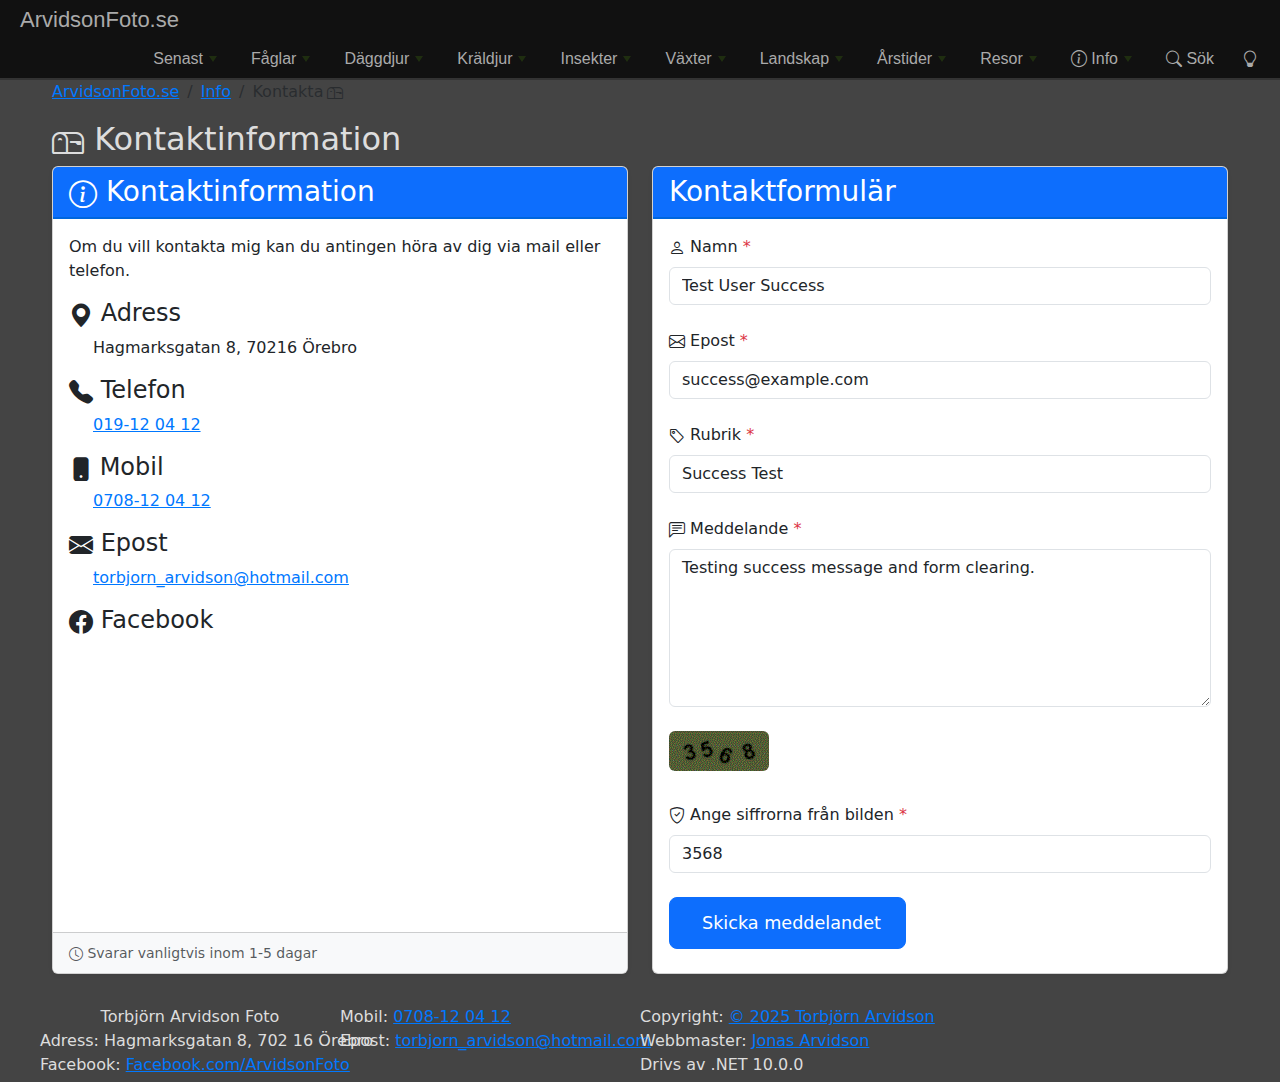
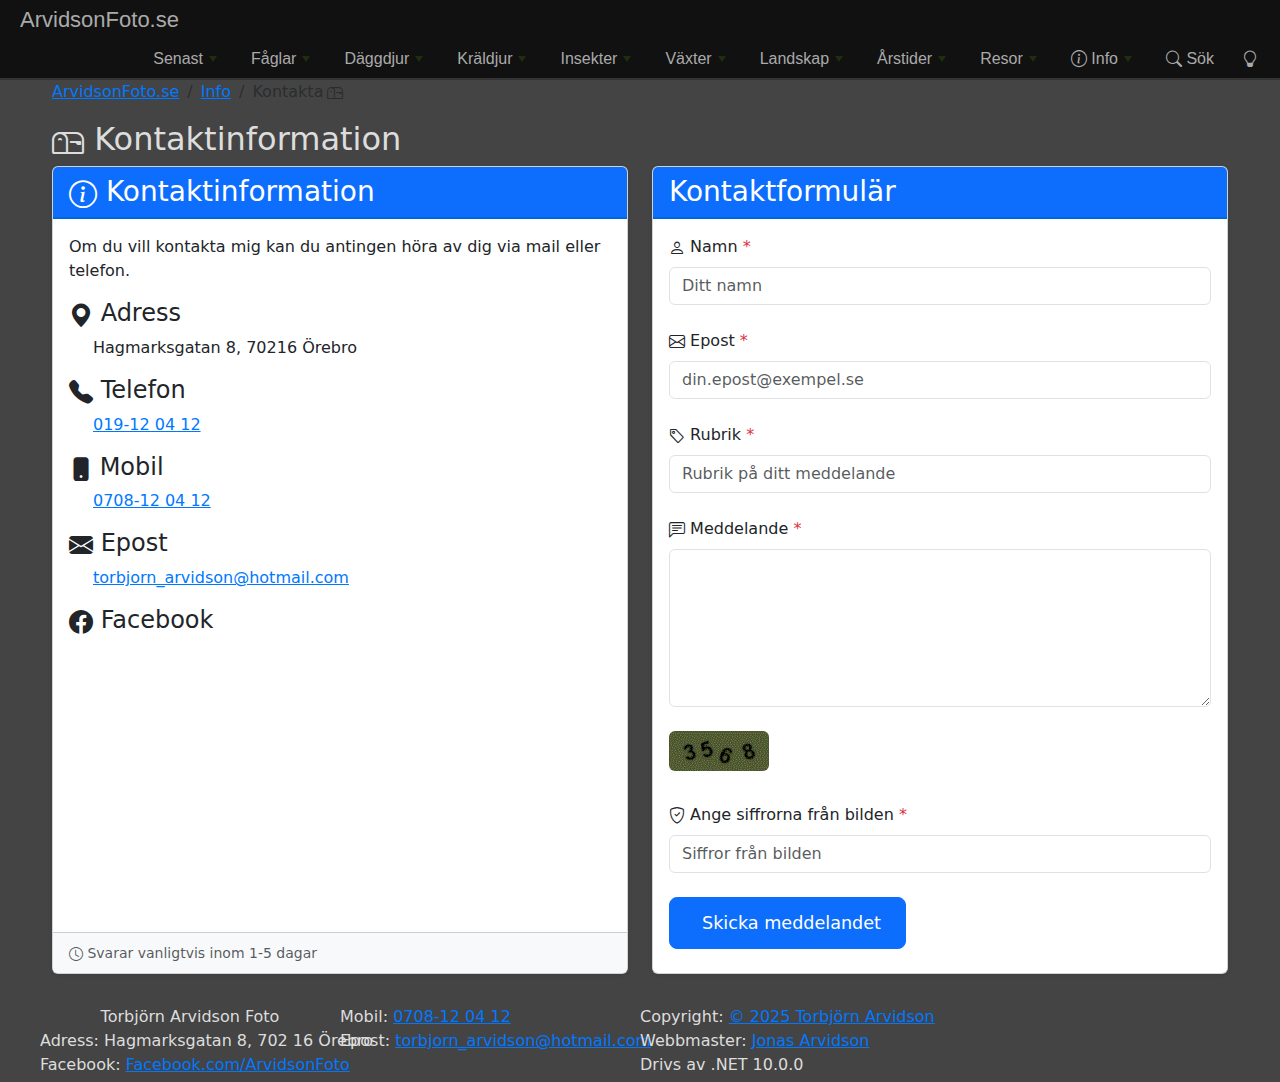
Fix alert message display using TempData for proper redirect handling

diff --git a/ArvidsonFoto.Tests.E2E/ContactFormTests.cs b/ArvidsonFoto.Tests.E2E/ContactFormTests.cs
@@ -161,19 +161,40 @@ public class ContactFormTests : IAsyncLifetime
         await page.WaitForLoadStateAsync(LoadState.NetworkIdle);
         await page.WaitForTimeoutAsync(2000);
 
-        // Take screenshot
-        await page.ScreenshotAsync(new PageScreenshotOptions
-        {
-            Path = "screenshots/contact-form-error-message.png",
-            FullPage = true
-        });
-
         // Assert - error message should be visible (if SMTP not configured)
         // The error alert contains the fallback email
         var errorAlert = page.Locator(".alert-danger");
-        if (await errorAlert.IsVisibleAsync())
+        var isErrorVisible = await errorAlert.IsVisibleAsync();
+        
+        if (isErrorVisible)
         {
             await Assertions.Expect(errorAlert).ToContainTextAsync("torbjorn@arvidsonfoto.se");
+            
+            // Scroll to alert to ensure it's visible in screenshot
+            await errorAlert.ScrollIntoViewIfNeededAsync();
+            await page.WaitForTimeoutAsync(500);
+            
+            // Take screenshot of the full page showing error
+            await page.ScreenshotAsync(new PageScreenshotOptions
+            {
+                Path = "screenshots/contact-form-error-message.png",
+                FullPage = true
+            });
+            
+            // Take focused screenshot of just the alert
+            await errorAlert.ScreenshotAsync(new LocatorScreenshotOptions
+            {
+                Path = "screenshots/contact-form-error-alert-only.png"
+            });
+        }
+        else
+        {
+            // If no error (email sent successfully), take screenshot anyway
+            await page.ScreenshotAsync(new PageScreenshotOptions
+            {
+                Path = "screenshots/contact-form-error-message.png",
+                FullPage = true
+            });
         }
 
         await context.CloseAsync();
@@ -207,13 +228,6 @@ public class ContactFormTests : IAsyncLifetime
         await page.WaitForLoadStateAsync(LoadState.NetworkIdle);
         await page.WaitForTimeoutAsync(2000);
 
-        // Take screenshot
-        await page.ScreenshotAsync(new PageScreenshotOptions
-        {
-            Path = "screenshots/contact-form-success-message.png",
-            FullPage = true
-        });
-
         // Assert - Check if success or error message is shown
         var successAlert = page.Locator(".alert-success");
         var errorAlert = page.Locator(".alert-danger");
@@ -227,6 +241,23 @@ public class ContactFormTests : IAsyncLifetime
             await Assertions.Expect(successAlert).ToContainTextAsync("Tack för ditt mejl!");
             await Assertions.Expect(successAlert).ToContainTextAsync("återkommer inom 1-5 dagar");
             
+            // Scroll to alert to ensure it's visible in screenshot
+            await successAlert.ScrollIntoViewIfNeededAsync();
+            await page.WaitForTimeoutAsync(500);
+            
+            // Take screenshot of full page
+            await page.ScreenshotAsync(new PageScreenshotOptions
+            {
+                Path = "screenshots/contact-form-success-message.png",
+                FullPage = true
+            });
+            
+            // Take focused screenshot of just the alert
+            await successAlert.ScreenshotAsync(new LocatorScreenshotOptions
+            {
+                Path = "screenshots/contact-form-success-alert-only.png"
+            });
+            
             // Verify form is cleared
             await Assertions.Expect(page.Locator("input[name='Name']")).ToHaveValueAsync("");
             await Assertions.Expect(page.Locator("input[name='Email']")).ToHaveValueAsync("");
@@ -238,6 +269,31 @@ public class ContactFormTests : IAsyncLifetime
         {
             // If email sending fails (no SMTP configured), verify error message
             await Assertions.Expect(errorAlert).ToContainTextAsync("torbjorn@arvidsonfoto.se");
+            
+            // Scroll to alert
+            await errorAlert.ScrollIntoViewIfNeededAsync();
+            await page.WaitForTimeoutAsync(500);
+            
+            // Take screenshots
+            await page.ScreenshotAsync(new PageScreenshotOptions
+            {
+                Path = "screenshots/contact-form-success-message.png",
+                FullPage = true
+            });
+            
+            await errorAlert.ScreenshotAsync(new LocatorScreenshotOptions
+            {
+                Path = "screenshots/contact-form-success-alert-only.png"
+            });
+        }
+        else
+        {
+            // No alert visible - take screenshot for debugging
+            await page.ScreenshotAsync(new PageScreenshotOptions
+            {
+                Path = "screenshots/contact-form-success-message.png",
+                FullPage = true
+            });
         }
 
         await context.CloseAsync();

diff --git a/ArvidsonFoto/Controllers/InfoController.cs b/ArvidsonFoto/Controllers/InfoController.cs
@@ -191,13 +191,17 @@ public class InfoController(ArvidsonFotoDbContext context) : Controller
             contactFormModel.DisplayEmailSent = false;
         }
 
+        // Store display flags in TempData for the redirect
+        TempData["DisplayEmailSent"] = contactFormModel.DisplayEmailSent;
+        TempData["DisplayErrorSending"] = contactFormModel.DisplayErrorSending;
+
         if (Page.Equals("Kontakta"))
         {
-            return RedirectToAction("Kontakta", contactFormModel);
+            return RedirectToAction("Kontakta");
         }
         else if (Page.Equals("Kop_av_bilder"))
         {
-            return RedirectToAction("Kop_av_bilder", contactFormModel);
+            return RedirectToAction("Kop_av_bilder");
         }
         else
         {
@@ -211,6 +215,18 @@ public class InfoController(ArvidsonFotoDbContext context) : Controller
         if (User?.Identity?.IsAuthenticated is false)
             _pageCounterService.AddPageCount("Kontaktinformation");
 
+        // Retrieve display flags from TempData
+        if (TempData["DisplayEmailSent"] is bool displayEmailSent)
+        {
+            contactFormModel.DisplayEmailSent = displayEmailSent;
+            contactFormModel.FormSubmitDate = DateTime.Now;
+        }
+        if (TempData["DisplayErrorSending"] is bool displayErrorSending)
+        {
+            contactFormModel.DisplayErrorSending = displayErrorSending;
+            contactFormModel.FormSubmitDate = DateTime.Now;
+        }
+
         if (contactFormModel.FormSubmitDate < new DateTime(2000, 01, 01) && contactFormModel.Message is null)
         {
             contactFormModel = new ContactFormModel()
@@ -222,6 +238,11 @@ public class InfoController(ArvidsonFotoDbContext context) : Controller
                 ReturnPageUrl = "Kontakta"
             };
         }
+        else
+        {
+            // Preserve the ReturnPageUrl
+            contactFormModel.ReturnPageUrl = "Kontakta";
+        }
 
         return View(contactFormModel);
     }
@@ -231,6 +252,19 @@ public class InfoController(ArvidsonFotoDbContext context) : Controller
         ViewData["Title"] = "Köp av bilder";
         if (User?.Identity?.IsAuthenticated is false)
             _pageCounterService.AddPageCount("Köp av bilder");
+        
+        // Retrieve display flags from TempData
+        if (TempData["DisplayEmailSent"] is bool displayEmailSent)
+        {
+            contactFormModel.DisplayEmailSent = displayEmailSent;
+            contactFormModel.FormSubmitDate = DateTime.Now;
+        }
+        if (TempData["DisplayErrorSending"] is bool displayErrorSending)
+        {
+            contactFormModel.DisplayErrorSending = displayErrorSending;
+            contactFormModel.FormSubmitDate = DateTime.Now;
+        }
+        
         if (contactFormModel.FormSubmitDate < new DateTime(2000, 01, 01) && contactFormModel.Message is null)
         {
             contactFormModel = new ContactFormModel()
@@ -256,6 +290,11 @@ public class InfoController(ArvidsonFotoDbContext context) : Controller
 
                 }
             }
+        }
+        else
+        {
+            // Preserve the ReturnPageUrl
+            contactFormModel.ReturnPageUrl = "Kop_av_bilder";
         }
 
         return View(contactFormModel);
